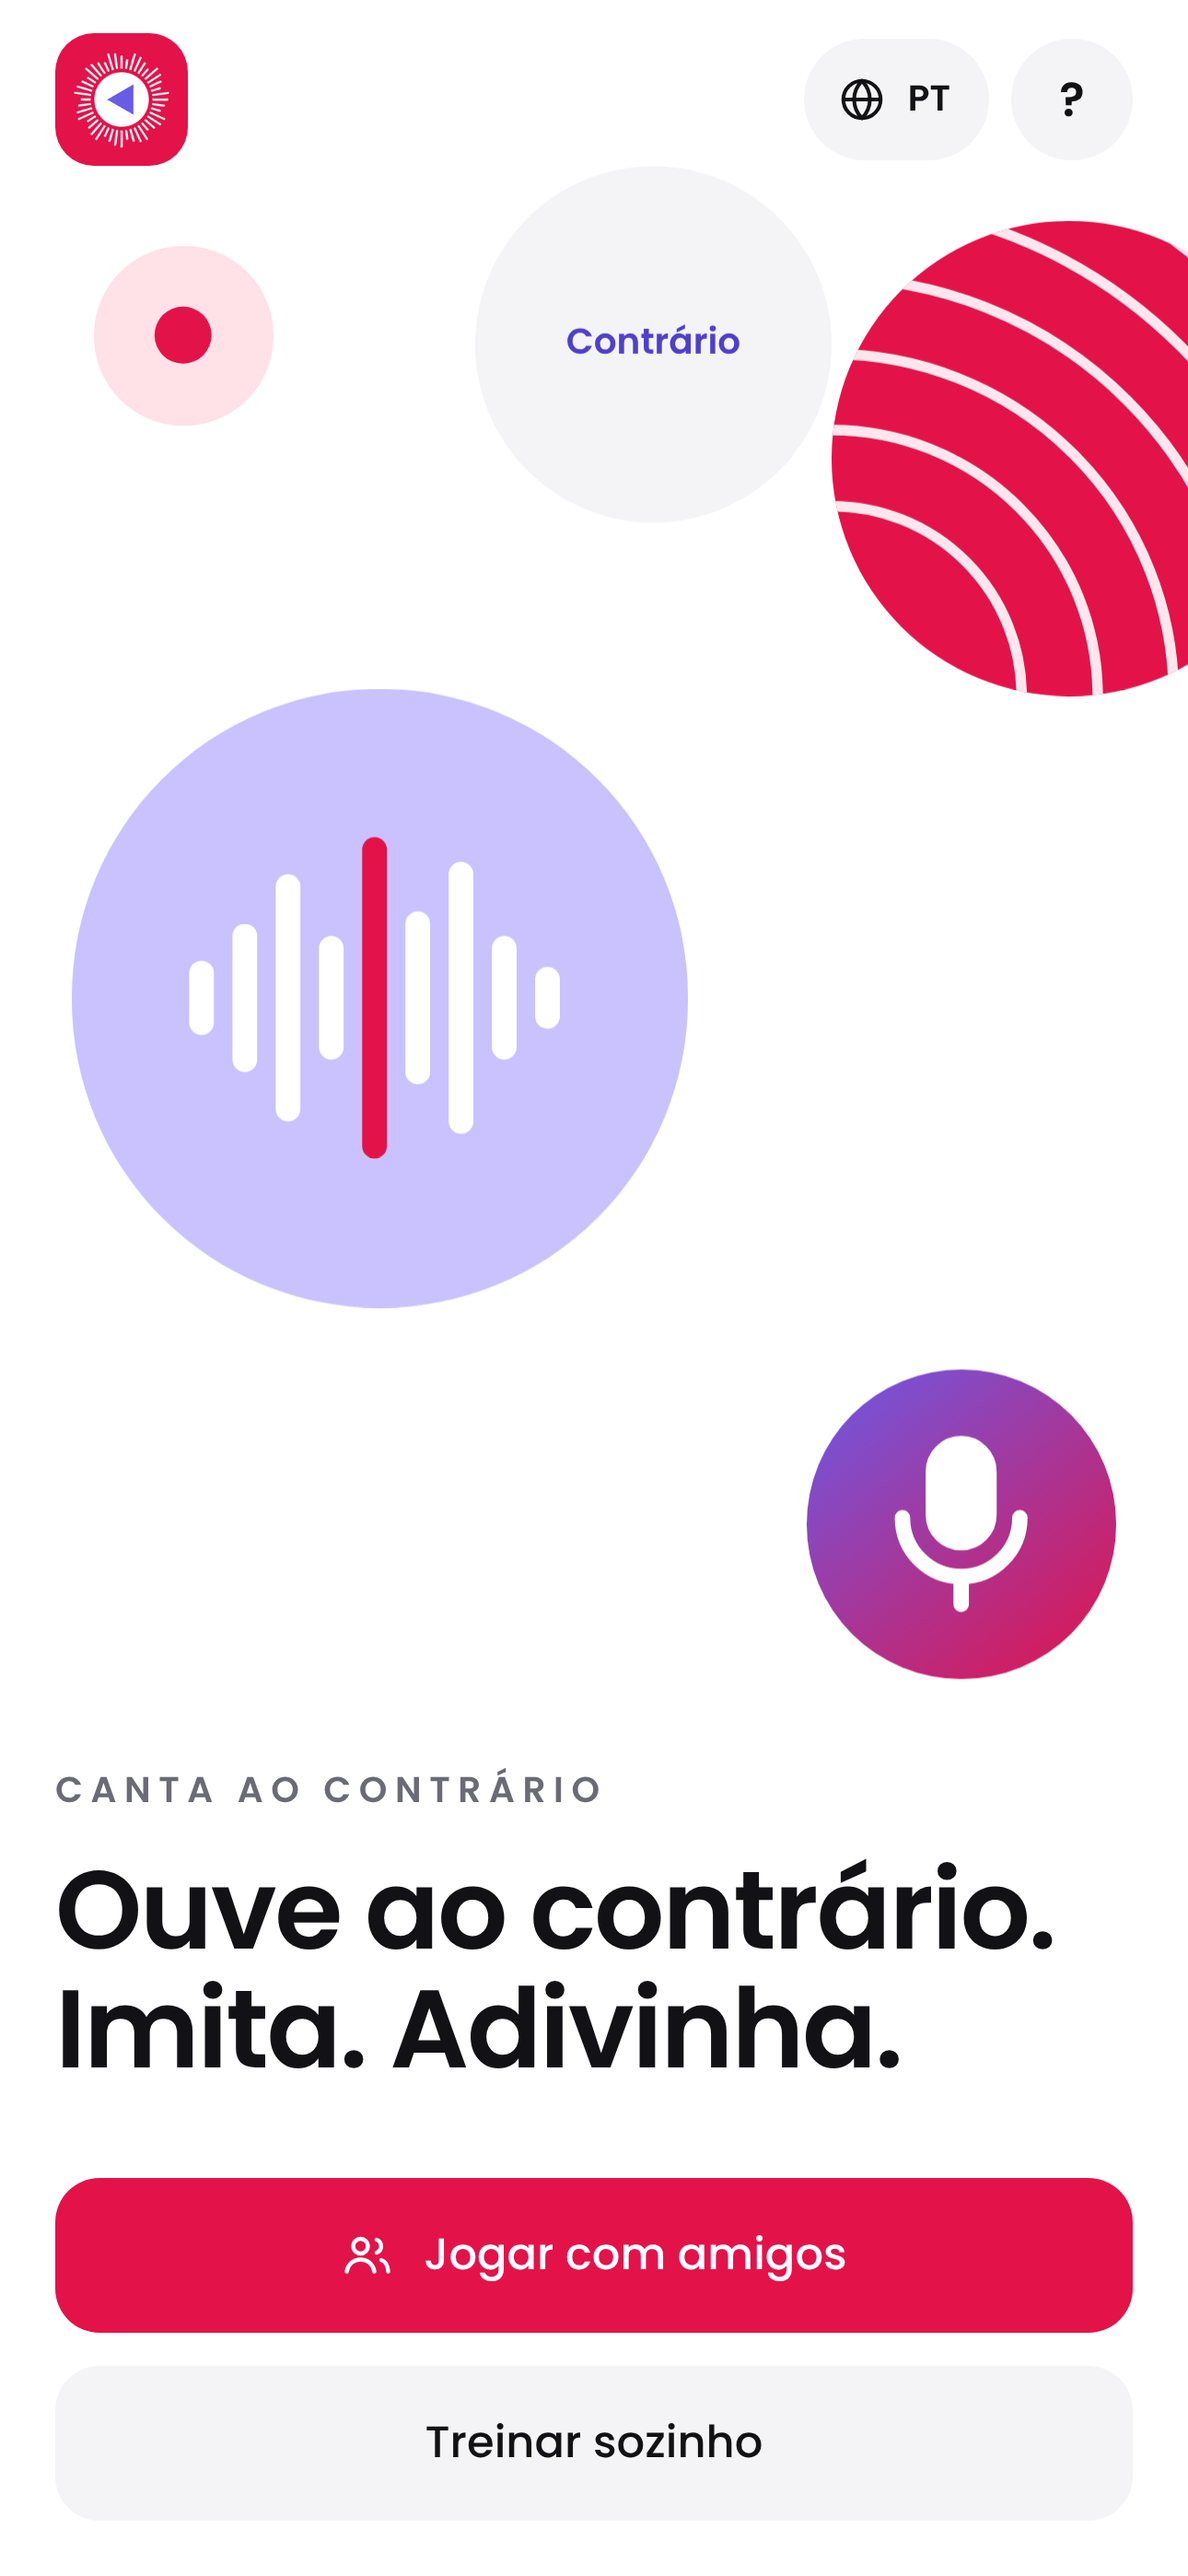
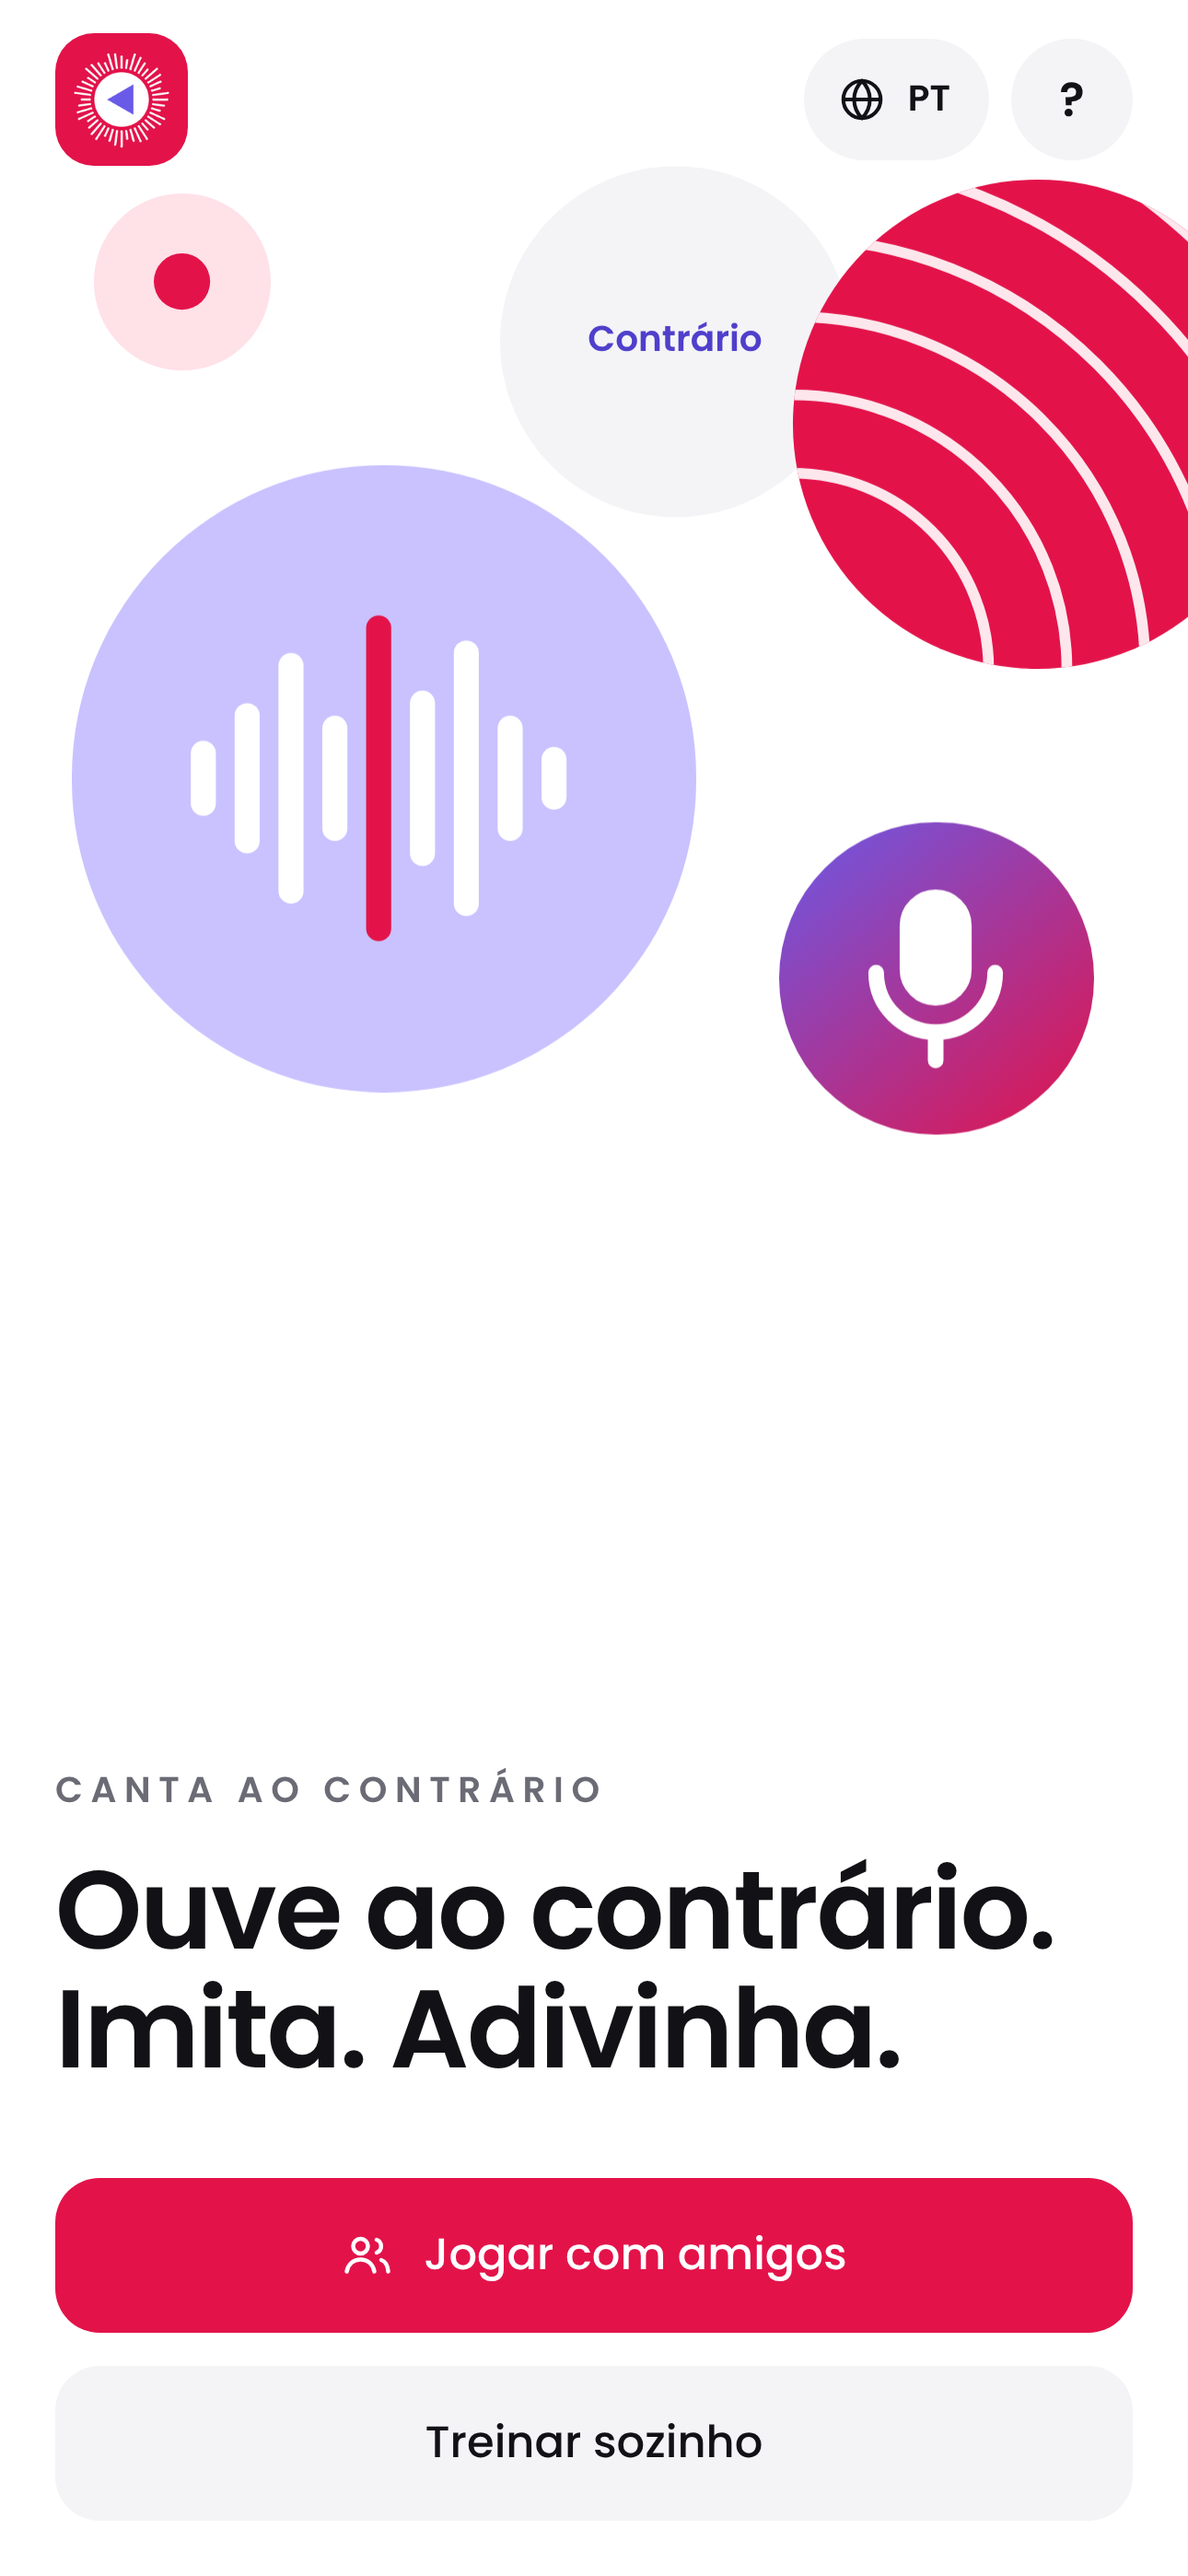
Ecrãs baixos: colagem do início proporcional e conteúdo sem cortes nem sobreposições
Claude-Session: https://claude.ai/code/session_019qmALCsnEJ2NEoHoEPHLjb

diff --git a/index.html b/index.html
@@ -151,14 +151,14 @@ h1, h2, p { margin: 0; }
 .home-top .right { display: flex; gap: 8px; }
 .lang-btn { min-height: 44px; padding: 0 14px 0 12px; border-radius: 99px; background: var(--surface); display: inline-flex; align-items: center; gap: 8px; font-size: var(--fs-cap); font-weight: var(--w-semi); }
 .lang-btn svg { width: 18px; height: 18px; }
-.collage { position: relative; margin: 0 -20px; min-height: 260px; }
+.collage { position: relative; margin: 0 -20px; height: clamp(170px, 38vh, 360px); container-type: size; }
 .blob { position: absolute; border-radius: 50%; display: grid; place-items: center; overflow: hidden; animation: float 6s ease-in-out infinite alternate; }
 .blob svg { width: 100%; height: 100%; display: block; }
-.b1 { width: 52%; aspect-ratio: 1; left: 6%; top: 34%; background: var(--lav-mid); animation-delay: -1s; }
-.b2 { width: 40%; aspect-ratio: 1; right: -10%; top: 4%; background: var(--red); animation-delay: -3s; }
-.b3 { width: 30%; aspect-ratio: 1; left: 40%; top: 0; background: var(--surface); animation-delay: -2s; }
-.b4 { width: 26%; aspect-ratio: 1; right: 6%; bottom: 0; background: linear-gradient(140deg, var(--lav) 0%, var(--red) 100%); animation-delay: -4s; }
-.b5 { width: 15%; aspect-ratio: 1; left: 8%; top: 6%; background: var(--red-soft); animation-delay: -5s; }
+.b1 { width: 64cqh; aspect-ratio: 1; left: 6%; top: 30%; background: var(--lav-mid); animation-delay: -1s; }
+.b2 { width: 50cqh; aspect-ratio: 1; right: -8%; top: 2%; background: var(--red); animation-delay: -3s; }
+.b3 { width: 36cqh; aspect-ratio: 1; left: 42%; top: 0; background: var(--surface); animation-delay: -2s; }
+.b4 { width: 32cqh; aspect-ratio: 1; right: 8%; bottom: 0; background: linear-gradient(140deg, var(--lav) 0%, var(--red) 100%); animation-delay: -4s; }
+.b5 { width: 18cqh; aspect-ratio: 1; left: 8%; top: 4%; background: var(--red-soft); animation-delay: -5s; }
 .b3 span { font-size: var(--fs-cap); font-weight: var(--w-semi); color: var(--lav-deep); transition: transform .8s cubic-bezier(.5,1.6,.4,1); display: inline-block; }
 @media (prefers-color-scheme: dark) { .b3 span { color: #C9C2FF; } }
 .b3 span.rev { transform: scaleX(-1); }
@@ -186,7 +186,9 @@ h1, h2, p { margin: 0; }
 .group { display: grid; gap: 12px; }
 
 /* ---------- jogo ---------- */
-.stage { min-height: 0; display: flex; flex-direction: column; justify-content: center; gap: 16px; padding: 8px 0; }
+.stage { display: flex; flex-direction: column; gap: 16px; padding: 8px 0; }
+/* Centra quando há espaço; quando não há, começa no topo (nada fica cortado) */
+.stage::before, .stage::after { content: ""; flex: 1 1 0; margin: -8px 0; }
 .stage.centered { align-items: center; text-align: center; }
 .stage.centered .rank, .stage.centered .podium { text-align: left; }
 .stage.centered #kicker { order: -1; font-weight: var(--w-semi); color: var(--ink); }
@@ -286,7 +288,6 @@ h1, h2, p { margin: 0; }
 
 @media (prefers-reduced-motion: reduce) { *, *::before, *::after { animation: none !important; transition: none !important; } }
 @media (max-height: 700px) {
-  .collage { min-height: 200px; }
   .core { width: 168px; height: 168px; }
   .big { width: 76px; height: 76px; }
   .hero-card { padding: 20px 16px 16px; }

diff --git a/sw.js b/sw.js
@@ -1,5 +1,5 @@
 /* Guarda o jogo no telemóvel para funcionar sem internet. Muda VERSION a cada publicação. */
-const VERSION = "cac-v12";
+const VERSION = "cac-v13";
 const SHELL = [
   "./", "index.html", "privacy.html", "manifest.webmanifest",
   "js/i18n.js", "js/score.js", "js/app.js",
